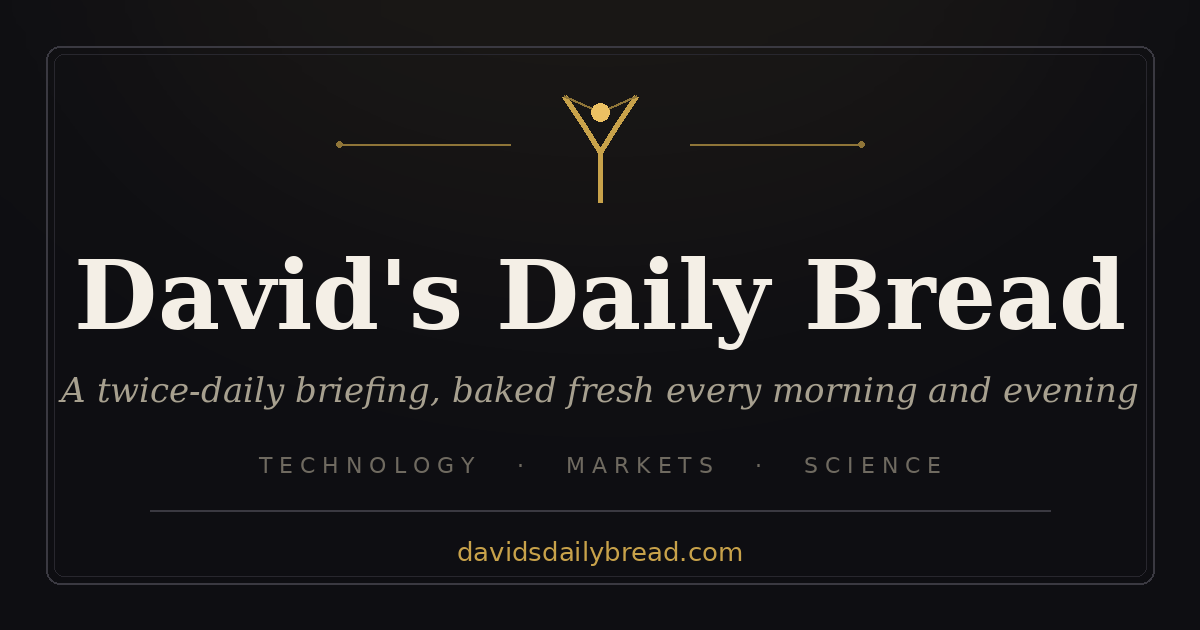
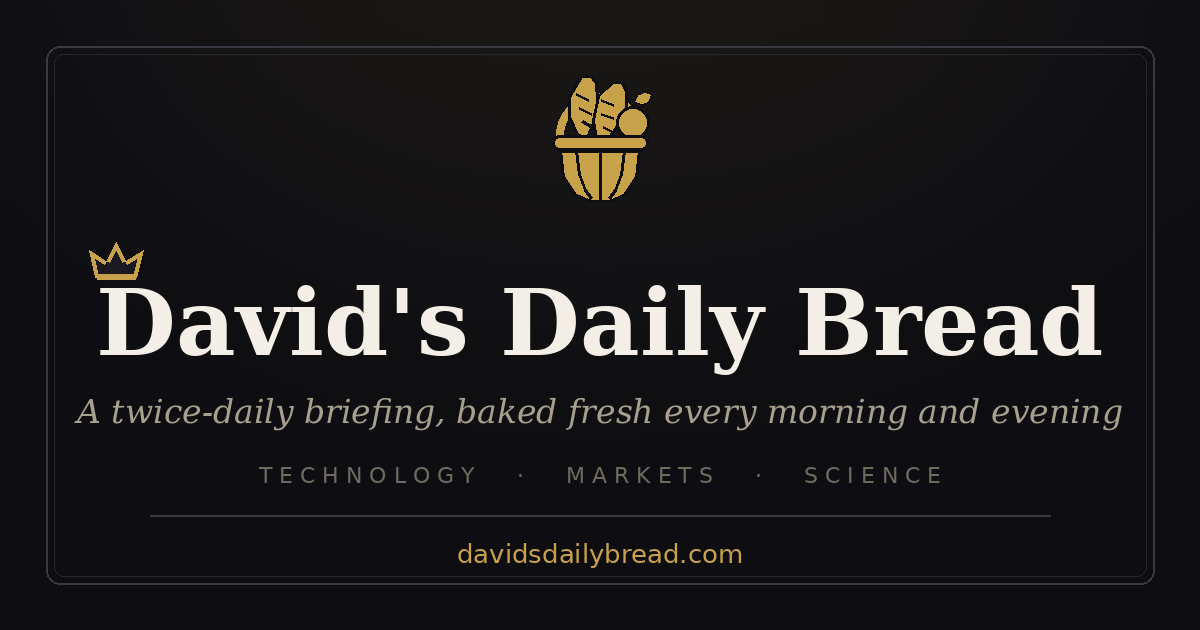
New masthead: bread basket and crown; relative links

diff --git a/index.html b/index.html
@@ -27,11 +27,8 @@
   .masthead { text-align: center; }
   .motif { color: var(--gold); display: block; margin: 0 auto 8px; }
   .wordmark { font-family: 'Cormorant Garamond', Georgia, serif; font-size: 55px; font-weight: 600; letter-spacing: 0.5px; line-height: 1; margin: 0; }
-  .wordmark .corr { position: relative; }
-  .wordmark .caret { position: absolute; left: -0.36em; bottom: 0.05em; width: 0.34em; height: 0.28em; color: var(--marker); }
-  .wordmark .twice { position: absolute; left: -0.62em; top: -0.60em; font-family: 'Caveat', cursive; font-weight: 700; font-size: 0.64em; line-height: 1; background: linear-gradient(180deg, var(--sun1), var(--sun2)); -webkit-background-clip: text; background-clip: text; color: transparent; transform: rotate(-8deg); white-space: nowrap; }
   .wordmark .initial { position: relative; display: inline-block; color: #f4efe6; }
-  .wordmark .emblem { position: absolute; left: -0.98em; bottom: -0.06em; width: 1.4em; height: 1.6em; overflow: visible; pointer-events: none; }
+  .wordmark .crown { position: absolute; left: -0.16em; top: -0.34em; width: 0.72em; height: 0.55em; transform: rotate(-14deg); pointer-events: none; z-index: 1; }
   .tagline { font-size: 10.5px; font-weight: 500; letter-spacing: 4px; text-transform: uppercase; color: var(--faint); margin-top: 8px; }
   .dateline { position: relative; border-top: 2px solid var(--line-strong); border-bottom: 2px solid var(--line-strong); padding: 8px 0; margin-top: 16px; }
   .dateline::before { content:""; position:absolute; left:0; right:0; top:5px; height:1px; background: linear-gradient(90deg, transparent, var(--gold-soft), transparent); }
@@ -79,8 +76,8 @@
 <div id="progress"></div>
 <div class="paper">
   <header class="masthead">
-    <svg class="motif" width="90" height="56" viewBox="0 0 90 56" fill="none" stroke="currentColor" stroke-linecap="round" stroke-linejoin="round" aria-hidden="true"><g stroke-width="2.4"><path d="M45 52 L45 32"/><path d="M45 32 C 42 24, 37 16, 34 10"/><path d="M45 32 C 48 24, 53 16, 56 10"/></g><circle cx="34" cy="10" r="2" fill="currentColor" stroke="none"/><circle cx="56" cy="10" r="2" fill="currentColor" stroke="none"/><g stroke-width="1.3" stroke="#8f7538"><path d="M34 11 Q 38 20 45 25"/><path d="M56 11 Q 52 20 45 25"/><path d="M41 24 Q 45 30 49 24"/></g><circle cx="45" cy="24" r="3" fill="currentColor" stroke="none"/><g stroke-width="1" stroke="#8f7538" opacity="0.8"><path d="M42 46 L48 44"/><path d="M42 43 L48 41"/></g></svg>
-    <h1 class="wordmark"><span class="initial">D<svg class="emblem" viewBox="0 0 84 92" xmlns="http://www.w3.org/2000/svg" aria-hidden="true"><path d="M14 80 Q 44 84 72 80" stroke="#8f7538" stroke-width="1.3" fill="none" stroke-linecap="round"/><path d="M22 80 C 20 64, 16 50, 14 36" stroke="#c8a24a" stroke-width="1.3" fill="none" stroke-linecap="round"/><path d="M27 80 C 26 64, 24 50, 22 36" stroke="#c8a24a" stroke-width="1.3" fill="none" stroke-linecap="round"/><g stroke="#c8a24a" stroke-width="1.1" fill="none" stroke-linecap="round"><path d="M14 36 l-4 -2"/><path d="M14 36 l3 -3"/><path d="M13.4 32 l-4 -2"/><path d="M13.4 32 l3 -3"/><path d="M12.8 28 l-3.5 -2"/><path d="M12.8 28 l3 -3"/><path d="M12.2 24 l-2 -4"/><path d="M12.2 24 l0.5 -5"/><path d="M12.2 24 l2 -4"/><path d="M22 36 l-4 -2"/><path d="M22 36 l3 -3"/><path d="M21.4 32 l-4 -2"/><path d="M21.4 32 l3 -3"/><path d="M20.8 28 l-3.5 -2"/><path d="M20.8 28 l3 -3"/><path d="M20.4 24 l-2 -4"/><path d="M20.4 24 l0.5 -5"/><path d="M20.4 24 l2 -4"/></g><path d="M32 80 C 30 61, 40 55, 51 55 C 62 55, 72 61, 70 80 Z" fill="#c8a24a" opacity="0.10"/><path d="M32 80 C 30 61, 40 55, 51 55 C 62 55, 72 61, 70 80 Z" stroke="#c8a24a" stroke-width="1.8" fill="none" stroke-linejoin="round"/><path d="M35 74 Q 51 78 67 74" stroke="#8f7538" stroke-width="1" fill="none" opacity="0.7" stroke-linecap="round"/><g stroke="#8f7538" stroke-width="1.3" fill="none" stroke-linecap="round"><path d="M41 67 l7 -6"/><path d="M49 68 l7 -6"/><path d="M57 69 l6 -5"/></g></svg></span>avid's <span class="corr"><svg class="caret" viewBox="0 0 14 12" fill="none" stroke="currentColor" stroke-width="2.2" stroke-linecap="round" stroke-linejoin="round" aria-hidden="true"><path d="M1 11 L7 2 L13 11"/></svg><span class="twice">twice</span>Daily</span> Bread</h1>
+    <svg class="motif" width="132" height="110" viewBox="0 0 132 110" fill="none" aria-hidden="true"><path d="M38 50 A 29 28 0 0 1 94 50" stroke="#c8a24a" stroke-width="5.5" fill="none"/><g><path d="M50 50 C 42 40, 43 22, 53 11 C 57 7, 63 9, 64 15 C 66 29, 62 42, 58 52 Z" fill="#c8a24a" stroke="#16151a" stroke-width="2.6" stroke-linejoin="round"/><g stroke="#16151a" stroke-width="2.2" stroke-linecap="round"><path d="M50 23 l8 4"/><path d="M52 32 l8 4"/><path d="M54 41 l7 4"/></g></g><g><path d="M63 52 C 60 39, 64 24, 74 15 C 78 11, 84 14, 84 20 C 84 33, 78 44, 72 53 Z" fill="#c8a24a" stroke="#16151a" stroke-width="2.6" stroke-linejoin="round"/><g stroke="#16151a" stroke-width="2.2" stroke-linecap="round"><path d="M67 27 l8 3"/><path d="M67 36 l8 3"/><path d="M68 45 l7 3"/></g></g><circle cx="88" cy="42" r="11" fill="#c8a24a" stroke="#16151a" stroke-width="2.6"/><path d="M88 31 L88 26" stroke="#16151a" stroke-width="2.2" stroke-linecap="round"/><path d="M88 28 C 91 23, 96 21, 101 23 C 99 28, 94 30, 88 28 Z" fill="#c8a24a" stroke="#16151a" stroke-width="1.8" stroke-linejoin="round"/><rect x="34" y="50" width="64" height="10" rx="5" fill="#c8a24a" stroke="#16151a" stroke-width="2.2"/><path d="M39 60 C 41 82, 49 94, 66 94 C 83 94, 91 82, 93 60 Z" fill="#c8a24a" stroke="#16151a" stroke-width="2.2"/><g stroke="#16151a" stroke-width="2.4" stroke-linecap="round"><path d="M50 61 C 51 75, 55 86, 60 92"/><path d="M66 61 L66 94"/><path d="M82 61 C 81 75, 77 86, 72 92"/></g></svg>
+    <h1 class="wordmark"><span class="initial"><svg class="crown" viewBox="0 0 40 32" aria-hidden="true"><path d="M7 26 L3 9 L14 16 L20 4 L26 16 L37 9 L33 26 Z" fill="#1a1920" stroke="#c8a24a" stroke-width="3" stroke-linejoin="round"/><path d="M8 26 H32" stroke="#c8a24a" stroke-width="3" stroke-linecap="round"/></svg>D</span>avid's Daily Bread</h1>
     <div class="tagline">Technology &middot; Markets &middot; Science</div>
     <div class="dateline">
       <div class="dateline-row">
@@ -121,7 +118,7 @@
       <div class="item"><span class="num">02</span><div><h3><a href="https://www.sciencedaily.com/releases/2026/06/260626030450.htm">Astronomers witness a magnetar's birth</a></h3><p><b>A "chirping"</b> supernova signal captured a magnetar forming, tying these ultra-magnets to the universe's brightest stellar explosions.</p></div></div>
     </div>
   </section>
-  <div class="colophon">David's Daily Bread &middot; compiled July 7, 2026, 12:41 PDT &middot; <a href="/archive.html">Past editions</a></div>
+  <div class="colophon">David's Daily Bread &middot; compiled July 7, 2026, 12:41 PDT &middot; <a href="archive.html">Past editions</a></div>
 </div>
 <script>
   (function () { var bar = document.getElementById('progress'); function u(){ var h=document.documentElement; var m=h.scrollHeight-h.clientHeight; bar.style.width=(m>0?(h.scrollTop||document.body.scrollTop)/m*100:0)+'%'; } window.addEventListener('scroll',u,{passive:true}); window.addEventListener('resize',u); u(); })();

diff --git a/archive.html b/archive.html
@@ -53,18 +53,18 @@
 <body>
 <div class="paper">
   <header class="masthead">
-    <h1 class="wordmark"><a href="/">David's Daily Bread</a></h1>
+    <h1 class="wordmark"><a href="index.html">David's Daily Bread</a></h1>
     <div class="tagline">Past editions &middot; kept warm</div>
     <div class="dateline"><div class="dateline-row"><span>The bread box</span></div></div>
   </header>
   <ol class="editions" id="editions">
     <li>
-      <span class="when"><a href="/editions/2026-07-07-morning.html">Tuesday, July 7, 2026</a></span>
+      <span class="when"><a href="editions/2026-07-07-morning.html">Tuesday, July 7, 2026</a></span>
       <span class="ed">Morning</span>
       <span class="lede">Chip stocks slide as Samsung's profit surge fails to satisfy</span>
     </li>
   </ol>
-  <div class="colophon"><a href="/">&larr; Latest edition</a></div>
+  <div class="colophon"><a href="index.html">&larr; Latest edition</a></div>
 </div>
 </body>
 </html>